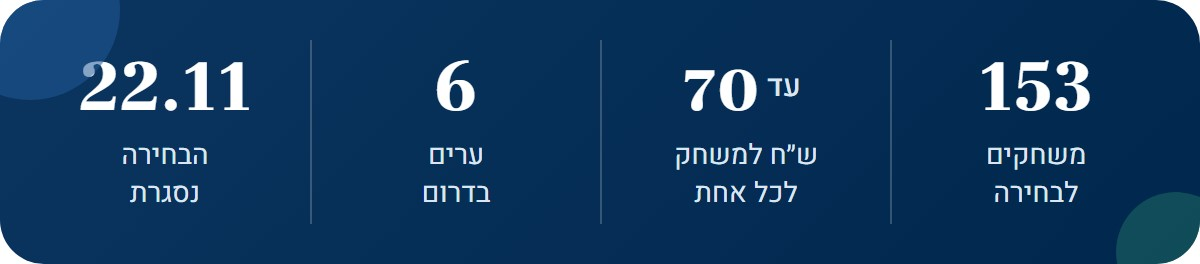
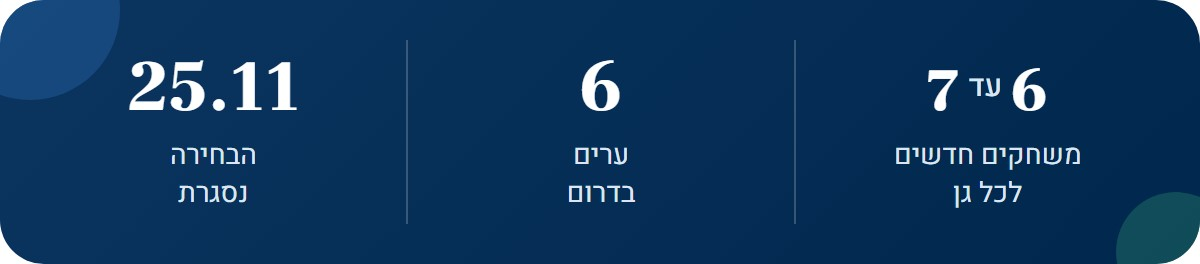
מייל החנוכה לפי הערות מרים: בלי 70 ש״ח, 6 עד 7 משחקים לכל גן, סגירה ב25.11

diff --git a/email/body_all.html b/email/body_all.html
@@ -1,28 +1,28 @@
 <div dir="rtl" style="direction:rtl;text-align:right">
 <table dir="rtl" cellpadding="0" cellspacing="0" border="0" width="600" style="width:600px;max-width:100%;border-collapse:separate;margin:0 auto">
 <tbody>
-<tr><td style="text-align:center;padding:0 0 16px 0"><a href="https://miriam-tzohar.github.io/chanukiya/"><img src="https://miriam-tzohar.github.io/chanukiya/email/hero_s.gif" width="600" height="300" alt="החנוכייה של הגן, כל אחת מכן בוחרת משחק חדש לגן עד 70 ש״ח" style="display:inline-block;border:0;max-width:100%;height:auto"></a></td></tr>
-<tr><td style="font-family:Arial,sans-serif;background-color:#F9F5EC;border-radius:16px;padding:20px 30px;text-align:right;font-size:15px;line-height:1.75;color:#22313F">שלום לכולן,<br><br>השנה בחנוכה אנחנו רוצות להגיד לכן תודה,<br>בדרך שתישאר בגן הרבה אחרי החג.<br><br>כל אחת מכן, גננות, סייעות, מטפלות ועו״סיות,<br>בוחרת משחק אחד חדש לגן שלה, עד 70 ש״ח.<br>המדריכות לא בוחרות משחק בעצמן. הן עוזרות למודרכות שלהן לבחור.<br>צהר הלב מזמינה, וכל משחק נשלח ישירות לגן, לכתובת שהרכזת כותבת.<br><br>במייל הזה כל ההוראות, צעד אחר צעד.<br><b style="color:#00274D">קודם העו״סיות רכזות הגנים פותחות את הגנים, ואחר כך כל הצוות בוחר.</b></td></tr>
-<tr><td style="text-align:center;padding:22px 0 4px 0"><img src="https://miriam-tzohar.github.io/chanukiya/email/p_sun2.gif" width="340" height="134" alt="השמש של הגן, הרכזות פותחות ראשונות" style="display:inline-block;border:0;max-width:100%;height:auto"></td></tr>
-<tr><td style="text-align:center;padding:16px 0 0 0"><a href="https://miriam-tzohar.github.io/chanukiya/"><img src="https://miriam-tzohar.github.io/chanukiya/email/steps_g.jpg" width="600" height="214" alt="נכנסים לקישור, כותבים שם וארבע ספרות ותפקיד עו״סית רכזת, פותחים גן חדש עם כתובת, ושולחים לצוות הודעה מוכנה" style="display:inline-block;border:0;max-width:100%;height:auto"></a></td></tr>
+<tr><td style="text-align:center;padding:0 0 16px 0"><a href="https://miriam-tzohar.github.io/chanukiya/"><img src="https://miriam-tzohar.github.io/chanukiya/email/hero_s.gif?v=1511" width="600" height="300" alt="מתנת חנוכה מצהר הלב, החנוכייה של הגן, 6 עד 7 משחקים חדשים לכל גן" style="display:inline-block;border:0;max-width:100%;height:auto"></a></td></tr>
+<tr><td style="font-family:Arial,sans-serif;background-color:#F9F5EC;border-radius:16px;padding:20px 30px;text-align:right;font-size:15px;line-height:1.75;color:#22313F">שלום לכולן,<br><br>השנה בחנוכה אנחנו רוצות להגיד לכן תודה,<br>בדרך שתישאר בגן הרבה אחרי החג.<br><br>כל אחת מכן, רכזת הגן העו״סית, מטפלת רגשית, קלינאית תקשורת,<br>מנתחת התנהגות, מרפאה בעיסוק, סייעת ABA וגננת הגן,<br>בוחרת משחק אחד חדש לגן.<br><b style="color:#00274D">כך יגיעו לכל גן 6 עד 7 משחקים חדשים!</b><br><br>תפקיד המדריכות משמעותי מאוד, הן עוזרות למודרכות שלהן לבחור משחק.<br>צהר הלב מזמינה, וכל גן יקבל באופן מרוכז את המשחקים שהזמין.<br><br>במייל הזה כל ההוראות, צעד אחר צעד.<br><b style="color:#00274D">קודם העו״סיות רכזות הגנים פותחות את הגנים, ואחר כך כל הצוות בוחר.</b></td></tr>
+<tr><td style="text-align:center;padding:22px 0 4px 0"><img src="https://miriam-tzohar.github.io/chanukiya/email/p_sun2.gif?v=1511" width="340" height="134" alt="השמש של הגן, הרכזות פותחות ראשונות" style="display:inline-block;border:0;max-width:100%;height:auto"></td></tr>
+<tr><td style="text-align:center;padding:16px 0 0 0"><a href="https://miriam-tzohar.github.io/chanukiya/"><img src="https://miriam-tzohar.github.io/chanukiya/email/steps_g.jpg?v=1511" width="600" height="214" alt="נכנסים לקישור, כותבים שם וארבע ספרות ותפקיד עו״סית רכזת, פותחים גן חדש עם כתובת, ושולחים לצוות הודעה מוכנה" style="display:inline-block;border:0;max-width:100%;height:auto"></a></td></tr>
 <tr><td style="font-family:Arial,sans-serif;background-color:#F9F5EC;border-radius:16px;padding:20px 30px;text-align:right;font-size:15px;line-height:1.75;color:#22313F"><b style="color:#00274D">עו״סיות רכזות הגנים, ככה פותחים את הגן</b><br>1. נכנסים לקישור <a href="https://miriam-tzohar.github.io/chanukiya/" style="color:#205998;font-weight:bold">miriam-tzohar.github.io/chanukiya</a><br>2. כותבים שם פרטי, שם משפחה וארבע הספרות האחרונות של תעודת הזהות.<br>3. בתפקיד בוחרים "עו״סית רכזת", ואז בוחרים את העיר.<br>4. בשורה "הגן שלך" בוחרים "פתיחת גן חדש (אני הרכזת)".<br>5. ממלאים את שם הגן, הכתובת המדויקת למשלוח, טלפון לתיאום,<br>וכמה יבחרו משחק לגן (הגננת, הסייעות והמטפלות, בלי המדריכה).<br>6. לוחצים "פתיחת הגן". מופיעה הודעה מוכנה לצוות של הגן, ושולחים אותה בוואטסאפ או במייל בלחיצה.<br>7. שומרים את קישור הניהול. הוא רק שלך.<br>בו רואים מי כבר בחרה, אפשר לבחור בשם עובדת בלי אינטרנט, ובסוף סוגרים את הסל.<br>8. רכזת של כמה גנים? לוחצים "פתיחת גן נוסף" ופותחים כל גן בנפרד.<br>9. גם את בוחרת משחק? לוחצים "לבחירת המשחק שלי לגן הזה".<br><br><b style="color:#BE4E08">חשוב לפתוח את הגנים כבר היום, כדי שהצוות יוכל לבחור.</b><br>המשחקים יגיעו לכתובת שתכתבי, אז כדאי לכתוב אותה מדויק.</td></tr>
-<tr><td style="text-align:center;padding:22px 0 4px 0"><img src="https://miriam-tzohar.github.io/chanukiya/email/p_team.gif" width="340" height="134" alt="לכל הצוות, ככה בוחרות משחק" style="display:inline-block;border:0;max-width:100%;height:auto"></td></tr>
-<tr><td style="text-align:center;padding:16px 0 0 0"><a href="https://miriam-tzohar.github.io/chanukiya/"><img src="https://miriam-tzohar.github.io/chanukiya/email/steps_s.jpg" width="600" height="214" alt="נכנסים לקישור, כותבים שם וארבע ספרות, בוחרים את העיר והגן, ובוחרים משחק" style="display:inline-block;border:0;max-width:100%;height:auto"></a></td></tr>
+<tr><td style="text-align:center;padding:22px 0 4px 0"><img src="https://miriam-tzohar.github.io/chanukiya/email/p_team.gif?v=1511" width="340" height="134" alt="לכל הצוות, ככה בוחרות משחק" style="display:inline-block;border:0;max-width:100%;height:auto"></td></tr>
+<tr><td style="text-align:center;padding:16px 0 0 0"><a href="https://miriam-tzohar.github.io/chanukiya/"><img src="https://miriam-tzohar.github.io/chanukiya/email/steps_s.jpg?v=1511" width="600" height="214" alt="נכנסים לקישור, כותבים שם וארבע ספרות, בוחרים את העיר והגן, ובוחרים משחק" style="display:inline-block;border:0;max-width:100%;height:auto"></a></td></tr>
 <tr><td style="font-family:Arial,sans-serif;background-color:#F9F5EC;border-radius:16px;padding:20px 30px;text-align:right;font-size:15px;line-height:1.75;color:#22313F"><b style="color:#00274D">כל הצוות, ככה בוחרים משחק</b><br>1. נכנסים לאותו קישור <a href="https://miriam-tzohar.github.io/chanukiya/" style="color:#205998;font-weight:bold">miriam-tzohar.github.io/chanukiya</a><br>2. כותבים שם פרטי, שם משפחה וארבע הספרות האחרונות של תעודת הזהות, ובוחרים תפקיד.<br>3. בוחרים עיר, ואת הגן שלך מתוך הרשימה.<br>4. לוחצים "לקטלוג המשחקים". אפשר לסנן לפי תחום, או לחפש לפי שם או מספר.<br>5. לוחצים "זה המשחק שלי" ומאשרים, ונדלק נר בחנוכייה של הגן.<br>6. אפשר לשתף תמונה לסטטוס, או לשלוח לצוות בוואטסאפ.<br><br>הגן שלך לא ברשימה? כנראה שהעו״סית רכזת הגן עוד לא פתחה אותו.<br>נסי שוב מאוחר יותר, או הזכירי לה.</td></tr>
-<tr><td style="text-align:center;padding:16px 0 0 0"><img src="https://miriam-tzohar.github.io/chanukiya/email/stats.jpg" width="600" height="132" alt="153 משחקים לבחירה, עד 70 ש״ח לכל אחת, 6 ערים בדרום, הבחירה נסגרת ב22.11" style="display:inline-block;border:0;max-width:100%;height:auto"></td></tr>
-<tr><td style="text-align:center;padding:22px 0 4px 0"><img src="https://miriam-tzohar.github.io/chanukiya/email/p_cat.gif" width="340" height="134" alt="מן הקטלוג, 153 משחקים לגיל הגן" style="display:inline-block;border:0;max-width:100%;height:auto"></td></tr>
-<tr><td style="text-align:center;padding:16px 0 0 0"><a href="https://miriam-tzohar.github.io/chanukiya/"><img src="https://miriam-tzohar.github.io/chanukiya/email/games.jpg" width="600" height="262" alt="ארבעה משחקים לדוגמה מהקטלוג" style="display:inline-block;border:0;max-width:100%;height:auto"></a></td></tr>
+<tr><td style="text-align:center;padding:16px 0 0 0"><img src="https://miriam-tzohar.github.io/chanukiya/email/stats.jpg?v=1511" width="600" height="132" alt="6 עד 7 משחקים חדשים לכל גן, 6 ערים בדרום, הבחירה נסגרת ב25.11" style="display:inline-block;border:0;max-width:100%;height:auto"></td></tr>
+<tr><td style="text-align:center;padding:22px 0 4px 0"><img src="https://miriam-tzohar.github.io/chanukiya/email/p_cat.gif?v=1511" width="340" height="134" alt="מן הקטלוג, משחקים לגיל הגן לפי תחומים" style="display:inline-block;border:0;max-width:100%;height:auto"></td></tr>
+<tr><td style="text-align:center;padding:16px 0 0 0"><a href="https://miriam-tzohar.github.io/chanukiya/"><img src="https://miriam-tzohar.github.io/chanukiya/email/games.jpg?v=1511" width="600" height="262" alt="ארבעה משחקים לדוגמה מהקטלוג" style="display:inline-block;border:0;max-width:100%;height:auto"></a></td></tr>
 <tr><td style="font-family:Arial,sans-serif;background-color:#F9F5EC;border-radius:16px;padding:20px 30px;text-align:right;font-size:15px;line-height:1.75;color:#22313F">קלינאית תקשורת תמצא משחקי שפה,<br>מרפאה בעיסוק משחקי מוטוריקה וחושים,<br>והסייעות משחקי חברה ותורות.<br>יש גם פאזלים, משחקי חשיבה ומשחקים לחגים.</td></tr>
-<tr><td style="text-align:center;padding:22px 0 4px 0"><img src="https://miriam-tzohar.github.io/chanukiya/email/p_off.gif" width="340" height="134" alt="בלי אינטרנט, גם כך אפשר לבחור" style="display:inline-block;border:0;max-width:100%;height:auto"></td></tr>
+<tr><td style="text-align:center;padding:22px 0 4px 0"><img src="https://miriam-tzohar.github.io/chanukiya/email/p_off.gif?v=1511" width="340" height="134" alt="בלי אינטרנט, גם כך אפשר לבחור" style="display:inline-block;border:0;max-width:100%;height:auto"></td></tr>
 <tr><td style="font-family:Arial,sans-serif;background-color:#E6F3EE;border-radius:16px;padding:20px 30px;text-align:right;font-size:15px;line-height:1.85;color:#22313F">אין לך אינטרנט, או שהקישור לא נפתח אצלך?<br>מצורף למייל קטלוג להדפסה, ולכל משחק יש בו מספר.<br>בוחרים מספר ומוסרים אותו לרכזת הגן, יחד עם השם וארבע הספרות.<br>הרכזת נכנסת לקישור הניהול שלה, לוחצת "בחירה בשם עובדת",<br>וכותבת את מספר המשחק בחיפוש.<br><a href="https://miriam-tzohar.github.io/chanukiya/catalog.pdf" style="color:#205998;font-weight:bold">לקטלוג להדפסה</a></td></tr>
-<tr><td style="text-align:center;padding:22px 0 4px 0"><img src="https://miriam-tzohar.github.io/chanukiya/email/p_faq.gif" width="340" height="134" alt="שאלות ותשובות, כל מה שחשוב לדעת" style="display:inline-block;border:0;max-width:100%;height:auto"></td></tr>
-<tr><td style="font-family:Arial,sans-serif;background-color:#F9F5EC;border-radius:16px;padding:20px 30px;text-align:right;font-size:15px;line-height:1.75;color:#22313F"><b style="color:#00274D">מדריכה, מה התפקיד שלך?</b><br>המדריכות לא בוחרות משחק בעצמן.<br>שבי עם המודרכות שלך מול הקטלוג, המליצי על משחק שמתאים לילדים,<br>וכל אחת בוחרת בעצמה.<br><br><b style="color:#00274D">עו״סית שמרכזת כמה גנים?</b><br>פותחת את כל הגנים שלה, ובוחרת משחק אחד לאחד מהם.<br><br><b style="color:#00274D">אפשר להחליף משחק?</b><br>כן, עד שהרכזת סוגרת את הסל.<br><br><b style="color:#00274D">המשחק שרציתי נעול?</b><br>מישהי מהגן כבר בחרה אותו, כדי שלא יהיו כפולים. בוחרים משחק אחר.<br><br><b style="color:#00274D">למה ארבע ספרות?</b><br>רק כדי שכל אחת תבחר פעם אחת. לא מבקשים את המספר המלא.<br><br><b style="color:#00274D">מתי המשחקים מגיעים?</b><br>מרים מזמינה אחרי שהבחירה נסגרת, וכל משחק נשלח ישירות לגן לפני חנוכה.<br>על כל קופסה תהיה מדבקה עם השם של מי שבחרה אותה.</td></tr>
-<tr><td style="text-align:center;padding:22px 0 4px 0"><img src="https://miriam-tzohar.github.io/chanukiya/email/p_note.gif" width="340" height="134" alt="מילה אישית ממרים" style="display:inline-block;border:0;max-width:100%;height:auto"></td></tr>
+<tr><td style="text-align:center;padding:22px 0 4px 0"><img src="https://miriam-tzohar.github.io/chanukiya/email/p_faq.gif?v=1511" width="340" height="134" alt="שאלות ותשובות, כל מה שחשוב לדעת" style="display:inline-block;border:0;max-width:100%;height:auto"></td></tr>
+<tr><td style="font-family:Arial,sans-serif;background-color:#F9F5EC;border-radius:16px;padding:20px 30px;text-align:right;font-size:15px;line-height:1.75;color:#22313F"><b style="color:#00274D">מדריכה, מה התפקיד שלך?</b><br>תפקיד המדריכות פה משמעותי מאוד.<br>את זו שעוזרת לכל המודרכות שלך לבחור משחק.<br>שבי איתן מול הקטלוג, המליצי על משחקים שמתאימים לילדים,<br>וכל אחת בוחרת בעצמה.<br><br><b style="color:#00274D">עו״סית שמרכזת כמה גנים?</b><br>פותחת את כל הגנים שלה, ובוחרת משחק אחד לאחד מהם.<br><br><b style="color:#00274D">אפשר להחליף משחק?</b><br>כן, עד שהרכזת סוגרת את הסל.<br><br><b style="color:#00274D">המשחק שרציתי נעול?</b><br>מישהי מהגן כבר בחרה אותו, כדי שלא יהיו כפולים. בוחרים משחק אחר.<br><br><b style="color:#00274D">למה ארבע ספרות?</b><br>רק כדי שכל אחת תבחר פעם אחת. לא מבקשים את המספר המלא.<br><br><b style="color:#00274D">מתי המשחקים מגיעים?</b><br>צהר הלב מזמינה אחרי שהבחירה נסגרת,<br>וכל גן יקבל באופן מרוכז את כל המשחקים שלו.</td></tr>
+<tr><td style="text-align:center;padding:22px 0 4px 0"><img src="https://miriam-tzohar.github.io/chanukiya/email/p_note.gif?v=1511" width="340" height="134" alt="מילה אישית ממרים" style="display:inline-block;border:0;max-width:100%;height:auto"></td></tr>
 <tr><td style="font-family:Arial,sans-serif;background-color:#EEF4FA;border:2px solid #DCE8F5;border-radius:18px;padding:22px 30px;text-align:center;font-size:15.5px;line-height:1.85;color:#00274D">אני רואה כל יום כמה אתן נותנות לילדים שלנו.<br>המשחק הזה הוא תודה קטנה,<br>שתישאר בגן ותשמח את הילדים גם אחרי החג.<br>אז תבחרו משהו שאתן אוהבות,<br>ותדליקו איתנו את החנוכייה של הגן.<br><span style="color:#BE4E08;font-weight:bold">מרים</span></td></tr>
-<tr><td style="font-family:Arial,sans-serif;padding:22px 10px 0 10px;text-align:center;font-size:16px;line-height:1.75;color:#00274D">הבחירה פתוחה עד יום ראשון, 22.11</td></tr>
-<tr><td style="text-align:center;padding:8px 0 0 0"><a href="https://miriam-tzohar.github.io/chanukiya/"><img src="https://miriam-tzohar.github.io/chanukiya/email/cta_s.gif" width="600" height="156" alt="לבחירת המשחק שלי, לחצי כאן" style="display:inline-block;border:0;max-width:100%;height:auto"></a></td></tr>
+<tr><td style="font-family:Arial,sans-serif;padding:22px 10px 0 10px;text-align:center;font-size:16px;line-height:1.75;color:#00274D">הבחירה פתוחה עד יום רביעי, 25.11</td></tr>
+<tr><td style="text-align:center;padding:8px 0 0 0"><a href="https://miriam-tzohar.github.io/chanukiya/"><img src="https://miriam-tzohar.github.io/chanukiya/email/cta_s.gif?v=1511" width="600" height="156" alt="לבחירת המשחק שלי, לחצי כאן" style="display:inline-block;border:0;max-width:100%;height:auto"></a></td></tr>
 <tr><td style="font-family:Arial,sans-serif;text-align:center;padding:4px 0 0 0;font-size:14px;color:#33475E">הקישור לבחירה <a href="https://miriam-tzohar.github.io/chanukiya/" style="color:#205998;font-weight:bold">miriam-tzohar.github.io/chanukiya</a></td></tr>
-<tr><td style="text-align:center;padding:16px 0 0 0"><a href="https://miriam-tzohar.github.io/chanukiya/wall.html"><img src="https://miriam-tzohar.github.io/chanukiya/email/wall.jpg" width="600" height="150" alt="קיר החנוכיות, איזה גן ידליק ראשון את כל החנוכייה" style="display:inline-block;border:0;max-width:100%;height:auto"></a></td></tr>
+<tr><td style="text-align:center;padding:16px 0 0 0"><a href="https://miriam-tzohar.github.io/chanukiya/wall.html"><img src="https://miriam-tzohar.github.io/chanukiya/email/wall.jpg?v=1511" width="600" height="150" alt="קיר החנוכיות, איזה גן ידליק ראשון את כל החנוכייה" style="display:inline-block;border:0;max-width:100%;height:auto"></a></td></tr>
 <tr><td style="font-family:Arial,sans-serif;padding:24px 6px 0 0;text-align:right;font-size:15px;color:#22313F">חג אורים שמח,</td></tr>
 <tr><td style="font-family:Arial,sans-serif;padding:10px 6px 0 0;text-align:right;font-size:13.5px;line-height:1.65;color:#33475E"><span style="font-size:16px;font-weight:bold;color:#00274D">מרים</span><br><span style="font-weight:bold;color:#BE4E08">רכזת אשכול, צהר הלב מרחב דרום</span><br><a href="mailto:miryamti@tzlev.com" style="color:#205998">miryamti@tzlev.com</a></td></tr>
 </tbody></table>

diff --git a/email/body_rakazot.html b/email/body_rakazot.html
@@ -1,24 +1,24 @@
 <div dir="rtl" style="direction:rtl;text-align:right">
 <table dir="rtl" cellpadding="0" cellspacing="0" border="0" width="600" style="width:600px;max-width:100%;border-collapse:separate;margin:0 auto">
 <tbody>
-<tr><td style="text-align:center;padding:0 0 16px 0"><a href="https://miriam-tzohar.github.io/chanukiya/"><img src="https://miriam-tzohar.github.io/chanukiya/email/hero_g.gif" width="600" height="300" alt="את השמש של הגן, את פותחת את הגן וכל הצוות בוחר משחק חדש" style="display:inline-block;border:0;max-width:100%;height:auto"></a></td></tr>
-<tr><td style="font-family:Arial,sans-serif;background-color:#F9F5EC;border-radius:16px;padding:20px 30px;text-align:right;font-size:15px;line-height:1.75;color:#22313F">עו״סית יקרה,<br><br>השנה בחנוכה צהר הלב מזמינה לכל אשת צוות בגנים שלך משחק חדש לגן, עד 70 ש״ח.<br>לגננת, לסייעות ולמטפלות. המדריכות לא בוחרות, הן עוזרות לצוות לבחור.<br>כל אחת בוחרת משחק בעצמה מתוך קטלוג של 153 משחקים,<br>ומרים מזמינה ושולחת הכול לגן לפני חנוכה.</td></tr>
-<tr><td style="text-align:center;padding:22px 0 4px 0"><img src="https://miriam-tzohar.github.io/chanukiya/email/p_sun.gif" width="340" height="134" alt="השמש של הגן, את פותחת ראשונה" style="display:inline-block;border:0;max-width:100%;height:auto"></td></tr>
+<tr><td style="text-align:center;padding:0 0 16px 0"><a href="https://miriam-tzohar.github.io/chanukiya/"><img src="https://miriam-tzohar.github.io/chanukiya/email/hero_g.gif?v=1511" width="600" height="300" alt="את השמש של הגן, את פותחת את הגן וכל הצוות בוחר משחק חדש" style="display:inline-block;border:0;max-width:100%;height:auto"></a></td></tr>
+<tr><td style="font-family:Arial,sans-serif;background-color:#F9F5EC;border-radius:16px;padding:20px 30px;text-align:right;font-size:15px;line-height:1.75;color:#22313F">עו״סית יקרה,<br><br>השנה בחנוכה צהר הלב מזמינה לכל אשת צוות בגנים שלך משחק חדש לגן,<br><b style="color:#00274D">כך יגיעו לכל גן 6 עד 7 משחקים חדשים!</b><br>רכזת הגן, המטפלות, סייעת ABA והגננת, כל אחת בוחרת משחק בעצמה מהקטלוג.<br>תפקיד המדריכות משמעותי מאוד, הן עוזרות לצוות לבחור.<br>צהר הלב מזמינה, וכל גן יקבל באופן מרוכז את המשחקים שהזמין.</td></tr>
+<tr><td style="text-align:center;padding:22px 0 4px 0"><img src="https://miriam-tzohar.github.io/chanukiya/email/p_sun.gif?v=1511" width="340" height="134" alt="השמש של הגן, את פותחת ראשונה" style="display:inline-block;border:0;max-width:100%;height:auto"></td></tr>
 <tr><td style="font-family:Arial,sans-serif;background-color:#F9F5EC;border-radius:16px;padding:20px 30px;text-align:right;font-size:15px;line-height:1.75;color:#22313F">את רכזת הגן, ולכן את השמש של החנוכייה.<br>את פותחת את הגן ראשונה,<br>ואז כל אשת צוות שבוחרת משחק מדליקה נר בחנוכייה של הגן.<br>רכזת של כמה גנים? פותחים כל גן בנפרד, זה לוקח דקה לכל גן.</td></tr>
-<tr><td style="text-align:center;padding:16px 0 0 0"><a href="https://miriam-tzohar.github.io/chanukiya/"><img src="https://miriam-tzohar.github.io/chanukiya/email/steps_g.jpg" width="600" height="214" alt="נכנסים לקישור, כותבים שם וארבע ספרות ותפקיד עו״סית רכזת, פותחים גן חדש עם כתובת, ושולחים לצוות הודעה מוכנה" style="display:inline-block;border:0;max-width:100%;height:auto"></a></td></tr>
+<tr><td style="text-align:center;padding:16px 0 0 0"><a href="https://miriam-tzohar.github.io/chanukiya/"><img src="https://miriam-tzohar.github.io/chanukiya/email/steps_g.jpg?v=1511" width="600" height="214" alt="נכנסים לקישור, כותבים שם וארבע ספרות ותפקיד עו״סית רכזת, פותחים גן חדש עם כתובת, ושולחים לצוות הודעה מוכנה" style="display:inline-block;border:0;max-width:100%;height:auto"></a></td></tr>
 <tr><td style="font-family:Arial,sans-serif;background-color:#F9F5EC;border-radius:16px;padding:20px 30px;text-align:right;font-size:15px;line-height:1.75;color:#22313F">אחרי הפתיחה מופיעה לך הודעה מוכנה לצוות של הגן,<br>עם כפתור וואטסאפ וכפתור מייל.<br><br>יש לך גם קישור ניהול לכל גן, והוא רק שלך.<br>בו רואים מי כבר בחרה ומה,<br>אפשר לבחור בשם עובדת בלי סמארטפון,<br>ובסוף סוגרים את הסל.<br><br>גם את יכולה לבחור משחק אחד, לאחד הגנים שלך.</td></tr>
-<tr><td style="text-align:center;padding:16px 0 0 0"><img src="https://miriam-tzohar.github.io/chanukiya/email/stats.jpg" width="600" height="132" alt="153 משחקים לבחירה, עד 70 ש״ח לכל אחת, 6 ערים בדרום, הבחירה נסגרת ב22.11" style="display:inline-block;border:0;max-width:100%;height:auto"></td></tr>
-<tr><td style="text-align:center;padding:22px 0 4px 0"><img src="https://miriam-tzohar.github.io/chanukiya/email/p_cat.gif" width="340" height="134" alt="מן הקטלוג, 153 משחקים לגיל הגן" style="display:inline-block;border:0;max-width:100%;height:auto"></td></tr>
-<tr><td style="text-align:center;padding:16px 0 0 0"><a href="https://miriam-tzohar.github.io/chanukiya/"><img src="https://miriam-tzohar.github.io/chanukiya/email/games.jpg" width="600" height="262" alt="ארבעה משחקים לדוגמה מהקטלוג" style="display:inline-block;border:0;max-width:100%;height:auto"></a></td></tr>
+<tr><td style="text-align:center;padding:16px 0 0 0"><img src="https://miriam-tzohar.github.io/chanukiya/email/stats.jpg?v=1511" width="600" height="132" alt="6 עד 7 משחקים חדשים לכל גן, 6 ערים בדרום, הבחירה נסגרת ב25.11" style="display:inline-block;border:0;max-width:100%;height:auto"></td></tr>
+<tr><td style="text-align:center;padding:22px 0 4px 0"><img src="https://miriam-tzohar.github.io/chanukiya/email/p_cat.gif?v=1511" width="340" height="134" alt="מן הקטלוג, משחקים לגיל הגן לפי תחומים" style="display:inline-block;border:0;max-width:100%;height:auto"></td></tr>
+<tr><td style="text-align:center;padding:16px 0 0 0"><a href="https://miriam-tzohar.github.io/chanukiya/"><img src="https://miriam-tzohar.github.io/chanukiya/email/games.jpg?v=1511" width="600" height="262" alt="ארבעה משחקים לדוגמה מהקטלוג" style="display:inline-block;border:0;max-width:100%;height:auto"></a></td></tr>
 <tr><td style="font-family:Arial,sans-serif;background-color:#F9F5EC;border-radius:16px;padding:20px 30px;text-align:right;font-size:15px;line-height:1.75;color:#22313F">בקטלוג יש משחקי שפה, מוטוריקה, חשיבה, משחקי חברה, פאזלים ומשחקים לחגים.<br>משחק שכבר נבחר בגן נעול, כדי שלא יהיו כפולים.</td></tr>
-<tr><td style="text-align:center;padding:22px 0 4px 0"><img src="https://miriam-tzohar.github.io/chanukiya/email/p_off.gif" width="340" height="134" alt="בלי אינטרנט, גם כך אפשר לבחור" style="display:inline-block;border:0;max-width:100%;height:auto"></td></tr>
+<tr><td style="text-align:center;padding:22px 0 4px 0"><img src="https://miriam-tzohar.github.io/chanukiya/email/p_off.gif?v=1511" width="340" height="134" alt="בלי אינטרנט, גם כך אפשר לבחור" style="display:inline-block;border:0;max-width:100%;height:auto"></td></tr>
 <tr><td style="font-family:Arial,sans-serif;background-color:#E6F3EE;border-radius:16px;padding:20px 30px;text-align:right;font-size:15px;line-height:1.85;color:#22313F">עובדת בלי אינטרנט, או שהקישור חסום אצלה?<br>מצורף למייל קטלוג להדפסה, ולכל משחק יש בו מספר.<br>היא אומרת לך את המספר, את השם ואת ארבע הספרות,<br>ואת בוחרת בשמה בקישור הניהול.<br>בחיפוש בקטלוג אפשר פשוט לכתוב את מספר המשחק.<br><a href="https://miriam-tzohar.github.io/chanukiya/catalog.pdf" style="color:#205998;font-weight:bold">לקטלוג להדפסה</a></td></tr>
-<tr><td style="text-align:center;padding:22px 0 4px 0"><img src="https://miriam-tzohar.github.io/chanukiya/email/p_note.gif" width="340" height="134" alt="מילה אישית ממרים" style="display:inline-block;border:0;max-width:100%;height:auto"></td></tr>
+<tr><td style="text-align:center;padding:22px 0 4px 0"><img src="https://miriam-tzohar.github.io/chanukiya/email/p_note.gif?v=1511" width="340" height="134" alt="מילה אישית ממרים" style="display:inline-block;border:0;max-width:100%;height:auto"></td></tr>
 <tr><td style="font-family:Arial,sans-serif;background-color:#EEF4FA;border:2px solid #DCE8F5;border-radius:18px;padding:22px 30px;text-align:center;font-size:15.5px;line-height:1.85;color:#00274D">אתן מחזיקות את הגן,<br>את הצוות, את הילדים ואת ההורים,<br>כל יום מחדש.<br>אז השנה אתן גם מדליקות את האור הראשון.<br>תודה שאתן איתנו.<br><span style="color:#BE4E08;font-weight:bold">מרים</span></td></tr>
-<tr><td style="font-family:Arial,sans-serif;padding:22px 10px 0 10px;text-align:center;font-size:16px;line-height:1.75;color:#00274D">הבחירה פתוחה עד יום ראשון, 22.11</td></tr>
-<tr><td style="text-align:center;padding:8px 0 0 0"><a href="https://miriam-tzohar.github.io/chanukiya/"><img src="https://miriam-tzohar.github.io/chanukiya/email/cta_g.gif" width="600" height="156" alt="לפתיחת הגנים שלי, לחצי כאן" style="display:inline-block;border:0;max-width:100%;height:auto"></a></td></tr>
+<tr><td style="font-family:Arial,sans-serif;padding:22px 10px 0 10px;text-align:center;font-size:16px;line-height:1.75;color:#00274D">הבחירה פתוחה עד יום רביעי, 25.11</td></tr>
+<tr><td style="text-align:center;padding:8px 0 0 0"><a href="https://miriam-tzohar.github.io/chanukiya/"><img src="https://miriam-tzohar.github.io/chanukiya/email/cta_g.gif?v=1511" width="600" height="156" alt="לפתיחת הגנים שלי, לחצי כאן" style="display:inline-block;border:0;max-width:100%;height:auto"></a></td></tr>
 <tr><td style="font-family:Arial,sans-serif;text-align:center;padding:4px 0 0 0;font-size:14px;color:#33475E">הקישור לפתיחת הגנים <a href="https://miriam-tzohar.github.io/chanukiya/" style="color:#205998;font-weight:bold">miriam-tzohar.github.io/chanukiya</a></td></tr>
-<tr><td style="text-align:center;padding:16px 0 0 0"><a href="https://miriam-tzohar.github.io/chanukiya/wall.html"><img src="https://miriam-tzohar.github.io/chanukiya/email/wall.jpg" width="600" height="150" alt="קיר החנוכיות, איזה גן ידליק ראשון את כל החנוכייה" style="display:inline-block;border:0;max-width:100%;height:auto"></a></td></tr>
+<tr><td style="text-align:center;padding:16px 0 0 0"><a href="https://miriam-tzohar.github.io/chanukiya/wall.html"><img src="https://miriam-tzohar.github.io/chanukiya/email/wall.jpg?v=1511" width="600" height="150" alt="קיר החנוכיות, איזה גן ידליק ראשון את כל החנוכייה" style="display:inline-block;border:0;max-width:100%;height:auto"></a></td></tr>
 <tr><td style="font-family:Arial,sans-serif;padding:24px 6px 0 0;text-align:right;font-size:15px;color:#22313F">חג אורים שמח,</td></tr>
 <tr><td style="font-family:Arial,sans-serif;padding:10px 6px 0 0;text-align:right;font-size:13.5px;line-height:1.65;color:#33475E"><span style="font-size:16px;font-weight:bold;color:#00274D">מרים</span><br><span style="font-weight:bold;color:#BE4E08">רכזת אשכול, צהר הלב מרחב דרום</span><br><a href="mailto:miryamti@tzlev.com" style="color:#205998">miryamti@tzlev.com</a></td></tr>
 </tbody></table>

diff --git a/js/staff.js b/js/staff.js
@@ -202,7 +202,7 @@
     drawBar();
     $('#catNote').textContent = note || (teacher
       ? 'בוחרת בשם עובדת מהקטלוג המודפס? כתבי את מספר המשחק בחיפוש.'
-      : 'בחרי משחק אחד לגן, עד 70 ש"ח. משחק שכבר נבחר בגן שלך נעול, כדי שלא יהיו כפולים.');
+      : 'בחרי משחק אחד לגן. משחק שכבר נבחר בגן שלך נעול, כדי שלא יהיו כפולים.');
     setErr('#catErr', '');
     section('s-cat');
     if (!S.cat) S.cat = UI.mountCatalog($('#catalog'), S.catalog, { taken: S.status.taken, mine: S.myItem, onPick: ask });
@@ -275,7 +275,7 @@
     var admin = teacher ? null : adminLinks()[st.id];
     show('#ganCard', !!admin);
     if (!admin) return;
-    var msg = 'צוות ' + st.name + ' יקר 🕎 צהר הלב מזמינה לכל אחת מכן משחק חדש לגן, עד 70 ש"ח! ' +
+    var msg = 'צוות ' + st.name + ' יקר 🕎 צהר הלב מזמינה לכל אחת מכן משחק חדש לגן, 6 עד 7 משחקים חדשים לכל גן! ' +
       'היכנסי, בחרי ' + st.city + ' ואת ' + st.name + ', ובחרי משחק אחד (' + C.DEADLINE_TEXT + '). המדריכה שלך תשמח לעזור בבחירה: ' + SITE;
     $('#gcName').textContent = st.name;
     $('#staffMsg').value = msg;

diff --git a/js/config.js b/js/config.js
@@ -3,12 +3,12 @@
 window.CONFIG = {
   // Live server (Miriam's account miryamti@tzlev.com, deployed 8.11.2026, version 1)
   API_URL: 'https://script.google.com/macros/s/AKfycbwYR-cx0emJqE6zTnT1G0nzpis0au9FwsnpYTpSx8mYLTe_1gdOB1TARdjwb8xH7l3YqA/exec',
-  DEADLINE_TEXT: 'עד יום ראשון, 22.11',
-  DEADLINE_ISO: '2026-11-22T23:59:00+02:00',
+  DEADLINE_TEXT: 'עד יום רביעי, 25.11',
+  DEADLINE_ISO: '2026-11-25T23:59:00+02:00',
   // 11.11: the עו״סית רכזת opens the gan (OPENER_ROLE). מדריכות do not choose a game, they help their staff choose (GUIDE_ROLE).
   ROLES: ['עו״סית רכזת', 'גננת', 'סייעת', 'סייעת ABA', 'קלינאית תקשורת', 'מרפאה בעיסוק', 'פיזיותרפיסטית', 'מטפלת רגשית',
           'מנתחת התנהגות', 'מדריכה', 'אחר'],
   OPENER_ROLE: 'עו״סית רכזת',
   GUIDE_ROLE: 'מדריכה',
-  MISSION: 'כל אשת צוות בוחרת משחק אחד לגן שלה, עד 70 ש"ח. צהר הלב מזמינה, ואתן מדליקות את החנוכייה של הגן.'
+  MISSION: 'כל אשת צוות בוחרת משחק אחד חדש לגן, וכך יגיעו לכל גן 6 עד 7 משחקים חדשים. צהר הלב מזמינה, ואתן מדליקות את החנוכייה של הגן.'
 };

diff --git a/index.html b/index.html
@@ -4,7 +4,7 @@
 <meta charset="utf-8">
 <meta name="viewport" content="width=device-width, initial-scale=1">
 <title>החנוכייה של הגן | צהר הלב</title>
-<meta name="description" content="כל אשת צוות בגן בוחרת משחק אחד לגן שלה, עד 70 ש&quot;ח.">
+<meta name="description" content="כל אשת צוות בגן בוחרת משחק אחד חדש לגן, וכך יגיעו לכל גן 6 עד 7 משחקים חדשים.">
 <meta property="og:title" content="החנוכייה של הגן | צהר הלב מרחב דרום">
 <meta property="og:description" content="כל אשת צוות בוחרת משחק אחד לגן שלה. צהר הלב מזמינה, ואתן מדליקות את החנוכייה.">
 <meta property="og:type" content="website">

diff --git a/js/gan.js b/js/gan.js
@@ -6,7 +6,7 @@
 
   function section(id) { ['s-admin', 's-bad'].forEach(function (s) { show('#' + s, s === id); }); window.scrollTo(0, 0); }
   function staffMsg(name) {
-    return 'צוות ' + name + ' יקר 🕎 צהר הלב מזמינה לכל אחת מכן משחק חדש לגן, עד 70 ש"ח! ' +
+    return 'צוות ' + name + ' יקר 🕎 צהר הלב מזמינה לכל אחת מכן משחק חדש לגן, 6 עד 7 משחקים חדשים לכל גן! ' +
       'היכנסי, בחרי את העיר ואת הגן, ובחרי משחק אחד (' + window.CONFIG.DEADLINE_TEXT + '). המדריכה שלך תשמח לעזור בבחירה: ' + staffUrl;
   }
 
